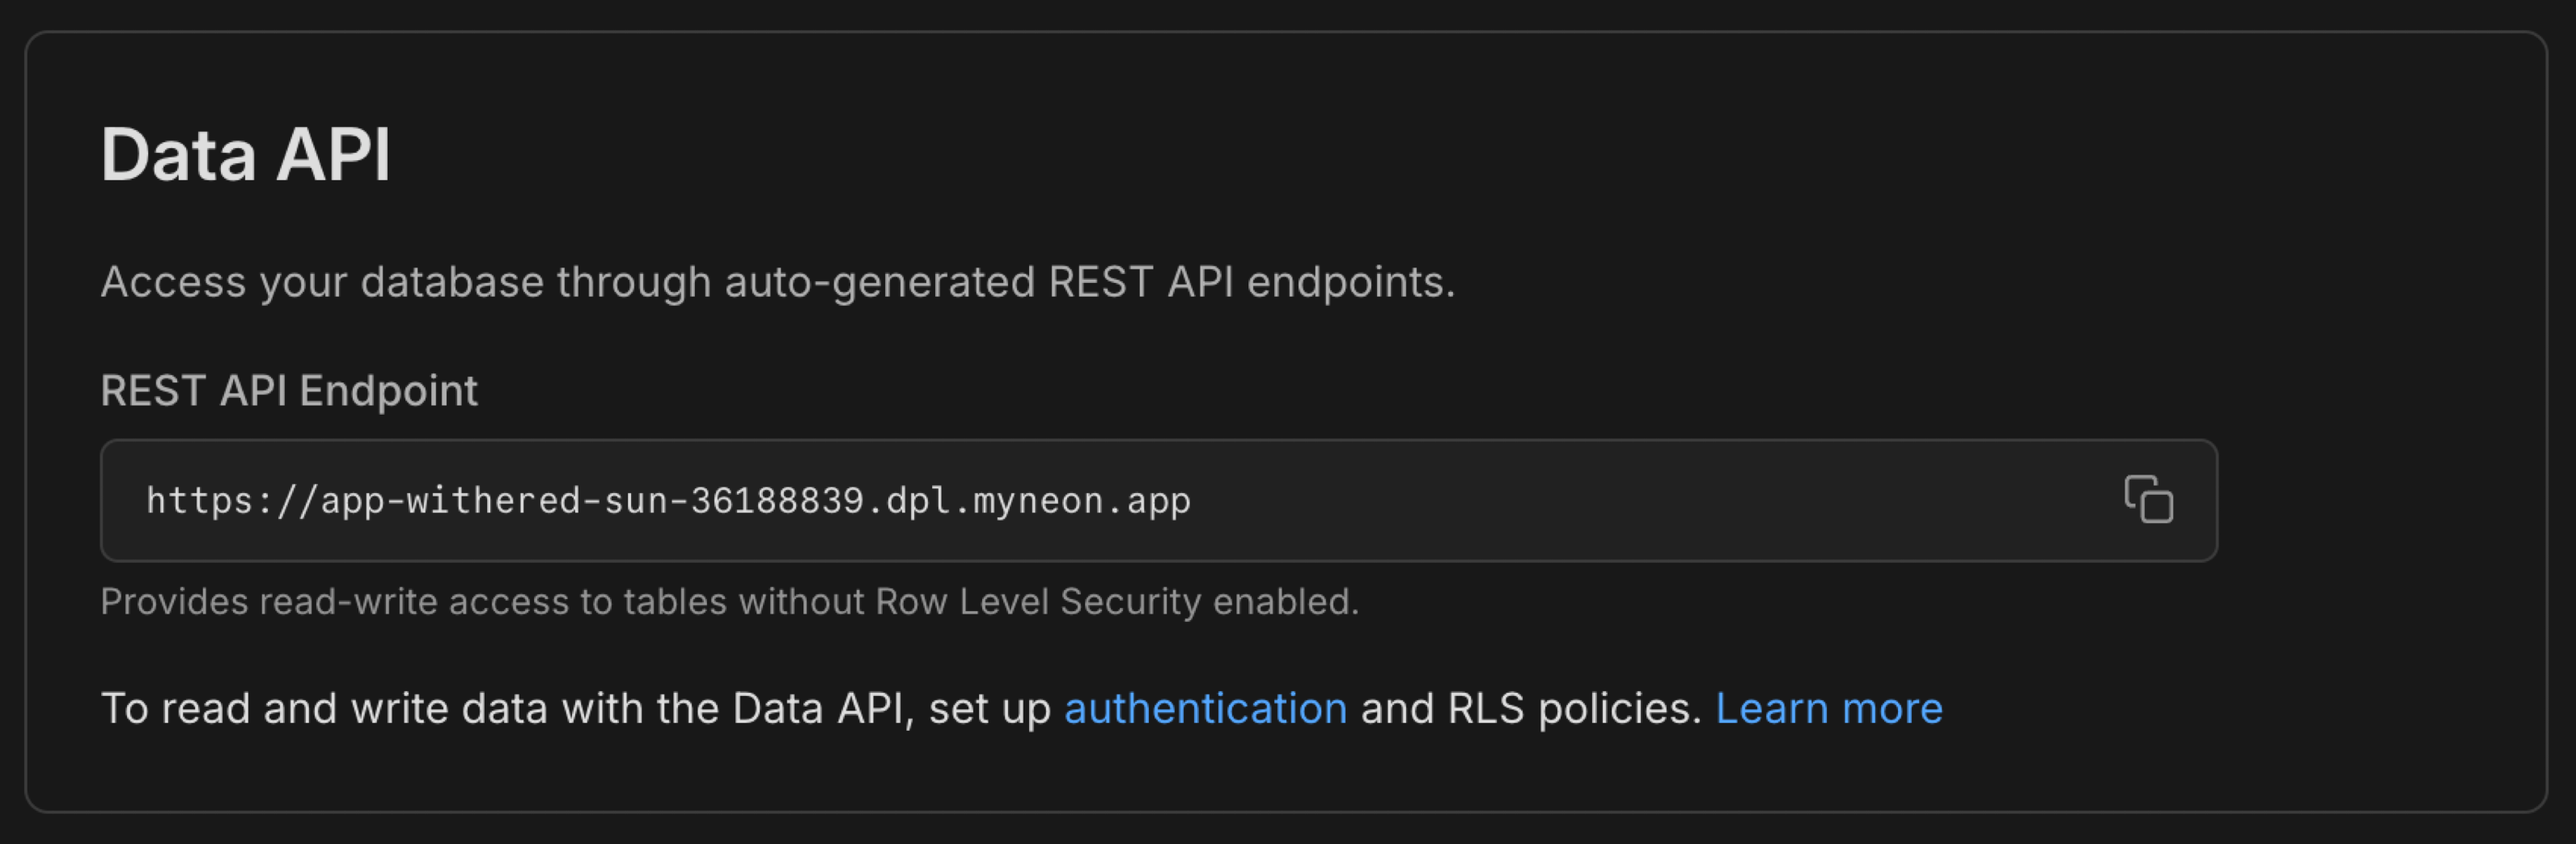
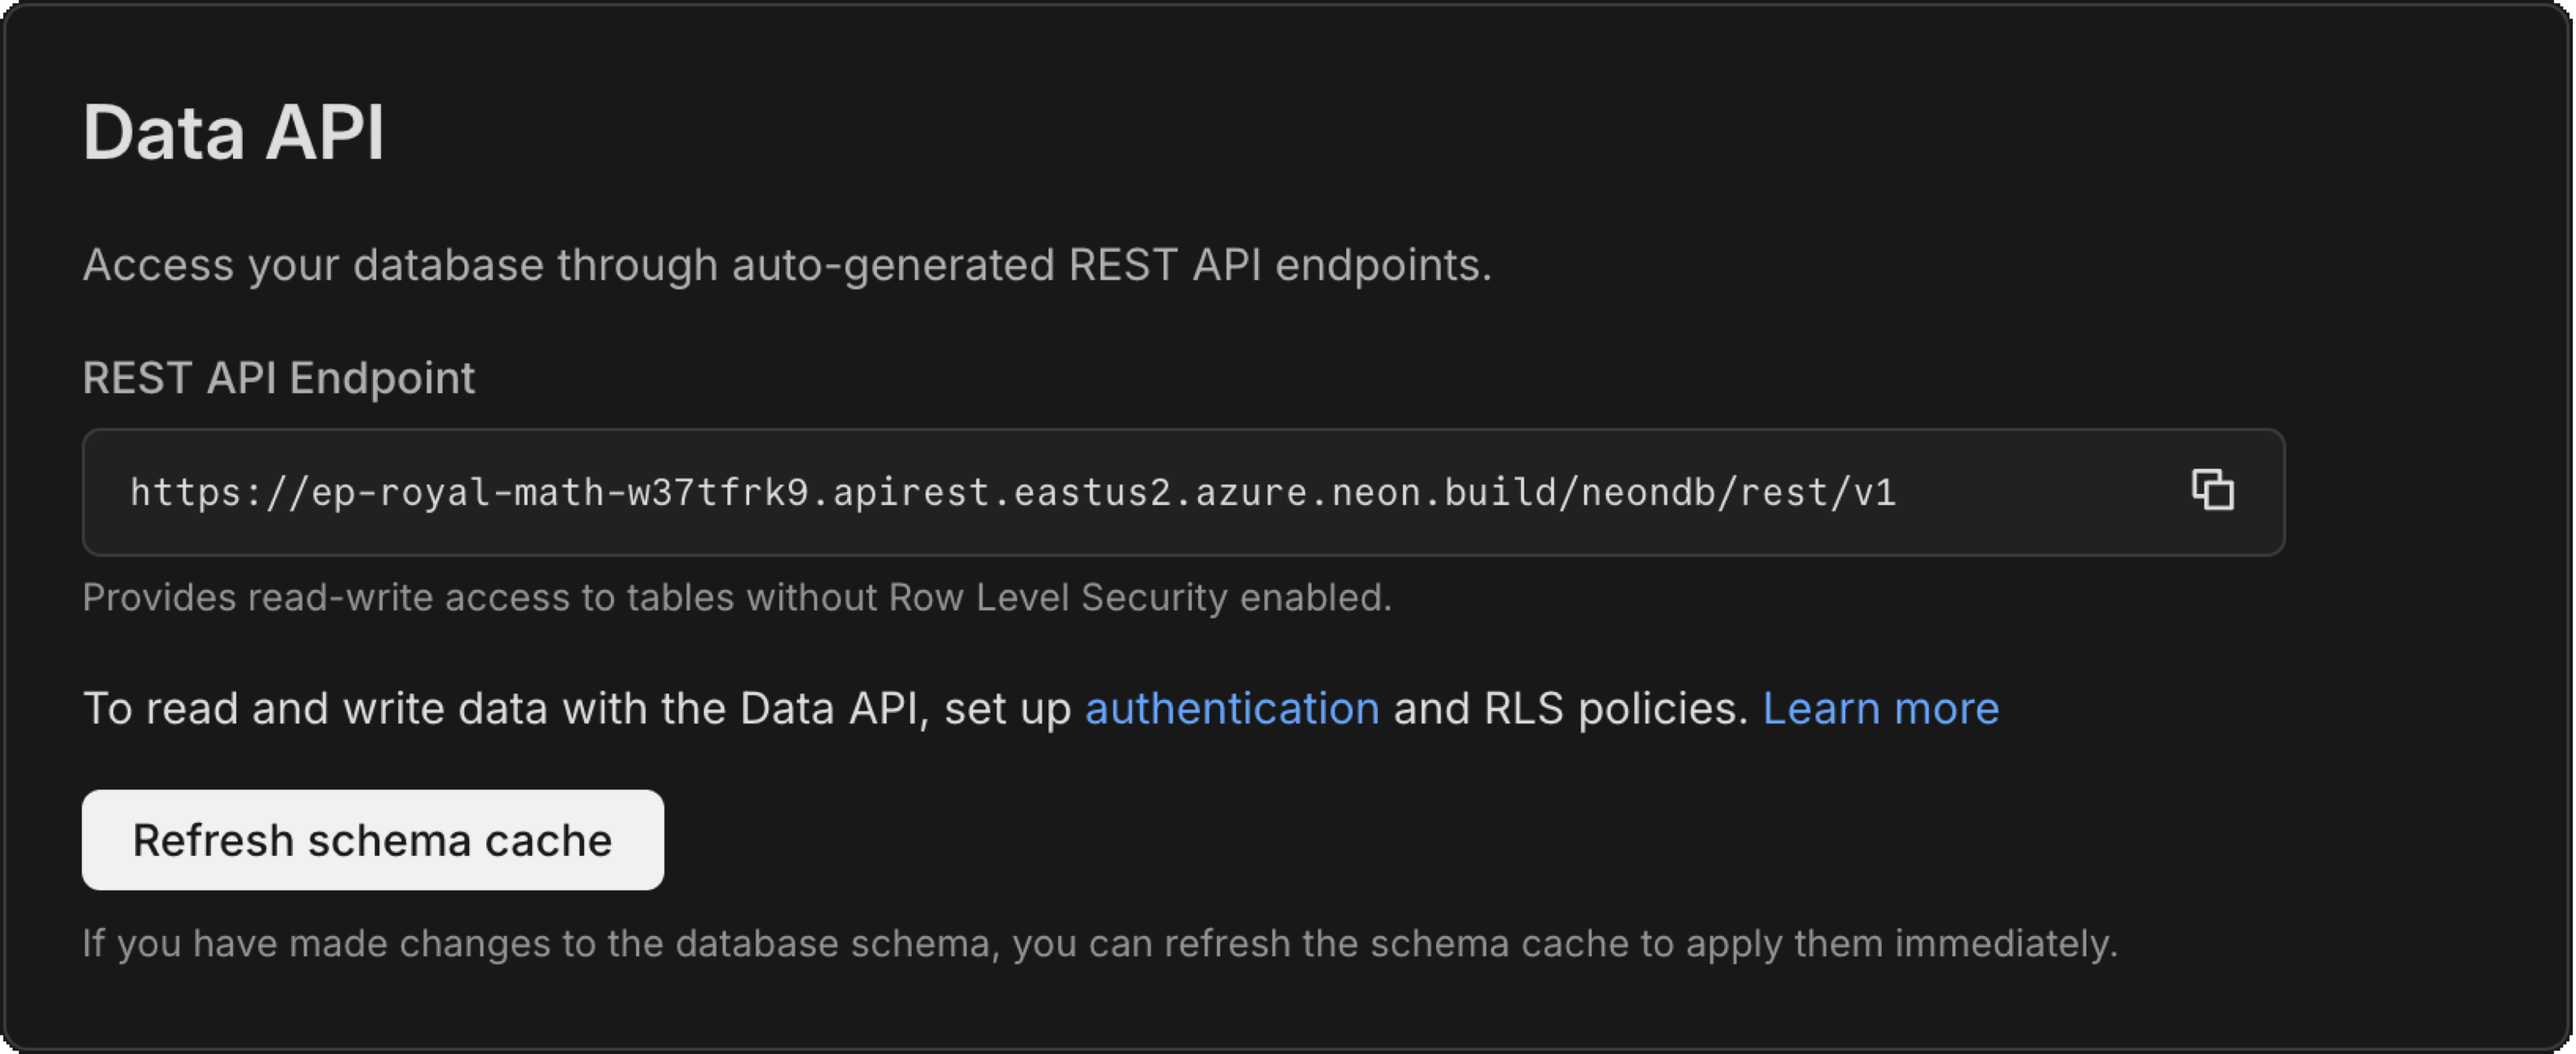
docs: saving current

diff --git a/content/docs/data-api/get-started.md b/content/docs/data-api/get-started.md
@@ -49,15 +49,6 @@ Once enabled, you'll see your **REST API Endpoint** — this is your base URL fo
 
 _Always secure your data before using the Data API in production._
 
-### About activation times and schema changes
-
-- After enabling the Data API, it may take a minute for your endpoints to become available. Be aware of that.
-- If you change your database schema, you'll need to tell the Data API to refresh its cache. You can do this by reloading the schema from the SQL Editor:
-
-  ```sql
-  NOTIFY pgrst, 'reload schema'
-  ```
-
 ## Authentication
 
 Once enabled, the **Working with the Data API** section shows your current security status and next steps. If you skipped the auth provider selection, you'll also see an option to add an authentication provider.
@@ -192,6 +183,17 @@ console.table(data);
 ```
 
 > For a complete example of how to configure the Bearer token with Neon Auth, see the [postgrest.ts](https://github.com/neondatabase-labs/neon-data-api-neon-auth/blob/main/src/lib/postgrest.ts) file from our demo app.
+
+## Schema changes and cache refresh
+
+When you modify your database schema (adding tables, columns, or changing structure), the Data API needs to refresh its cache to recognize these changes.
+
+**To refresh the schema cache:**
+
+1. Go to the **Data API** section in your Neon console
+2. Click the **Refresh schema cache** button
+
+![Data API with Refresh Schema Cache button](/docs/data-api/data-api-enabled.png)
 
 ## Try the demo app
 
